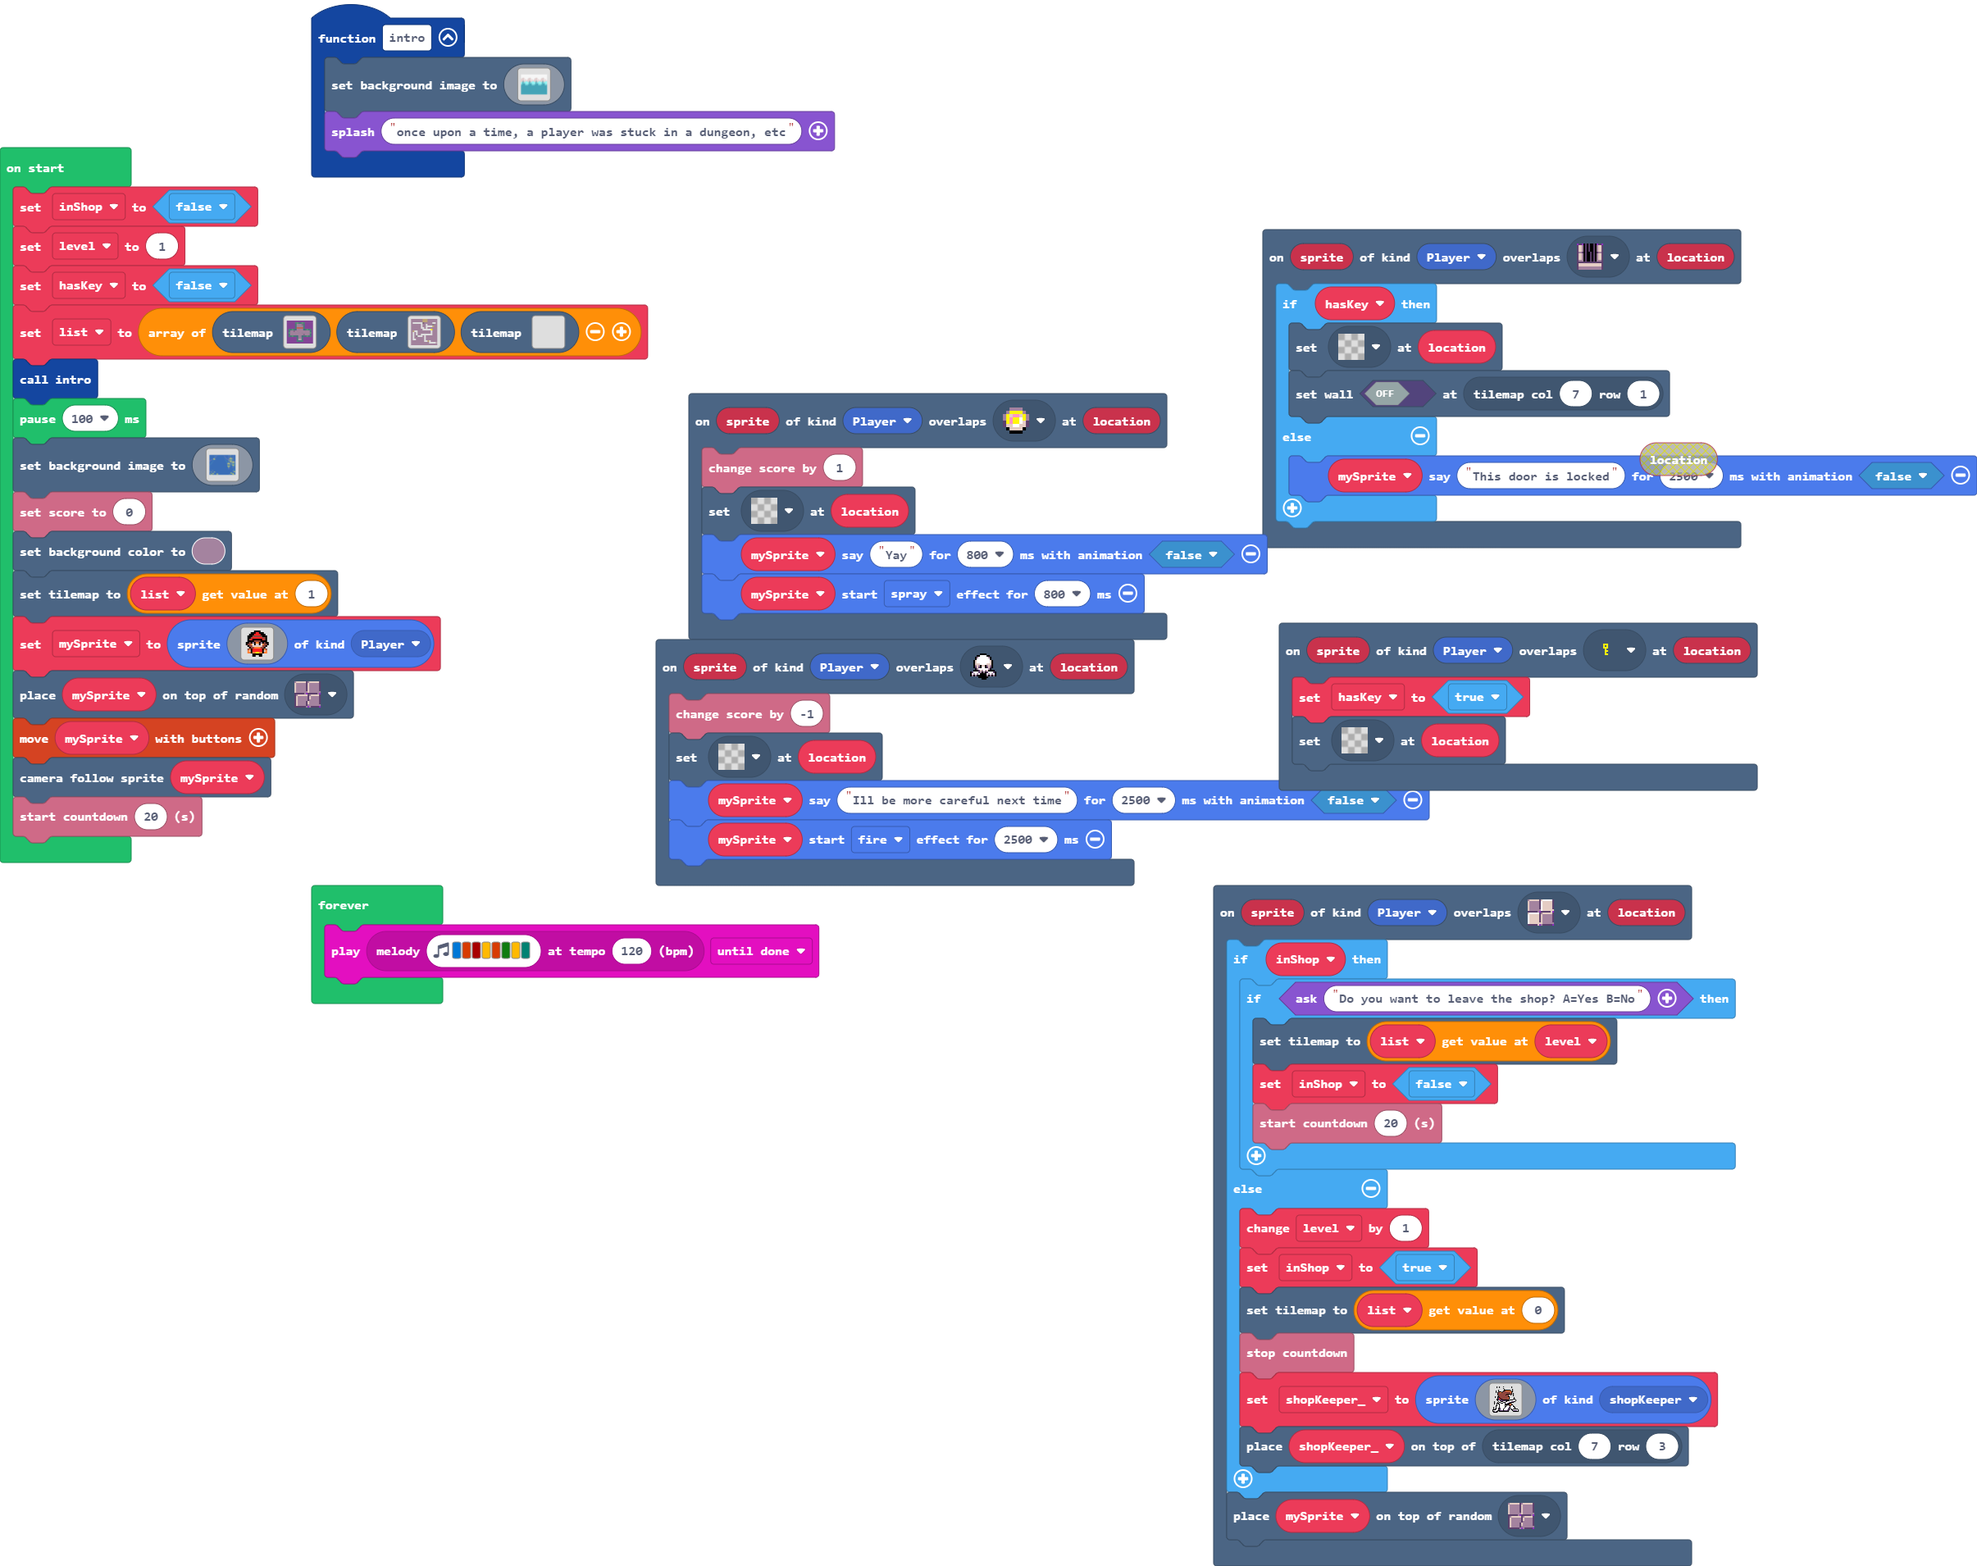
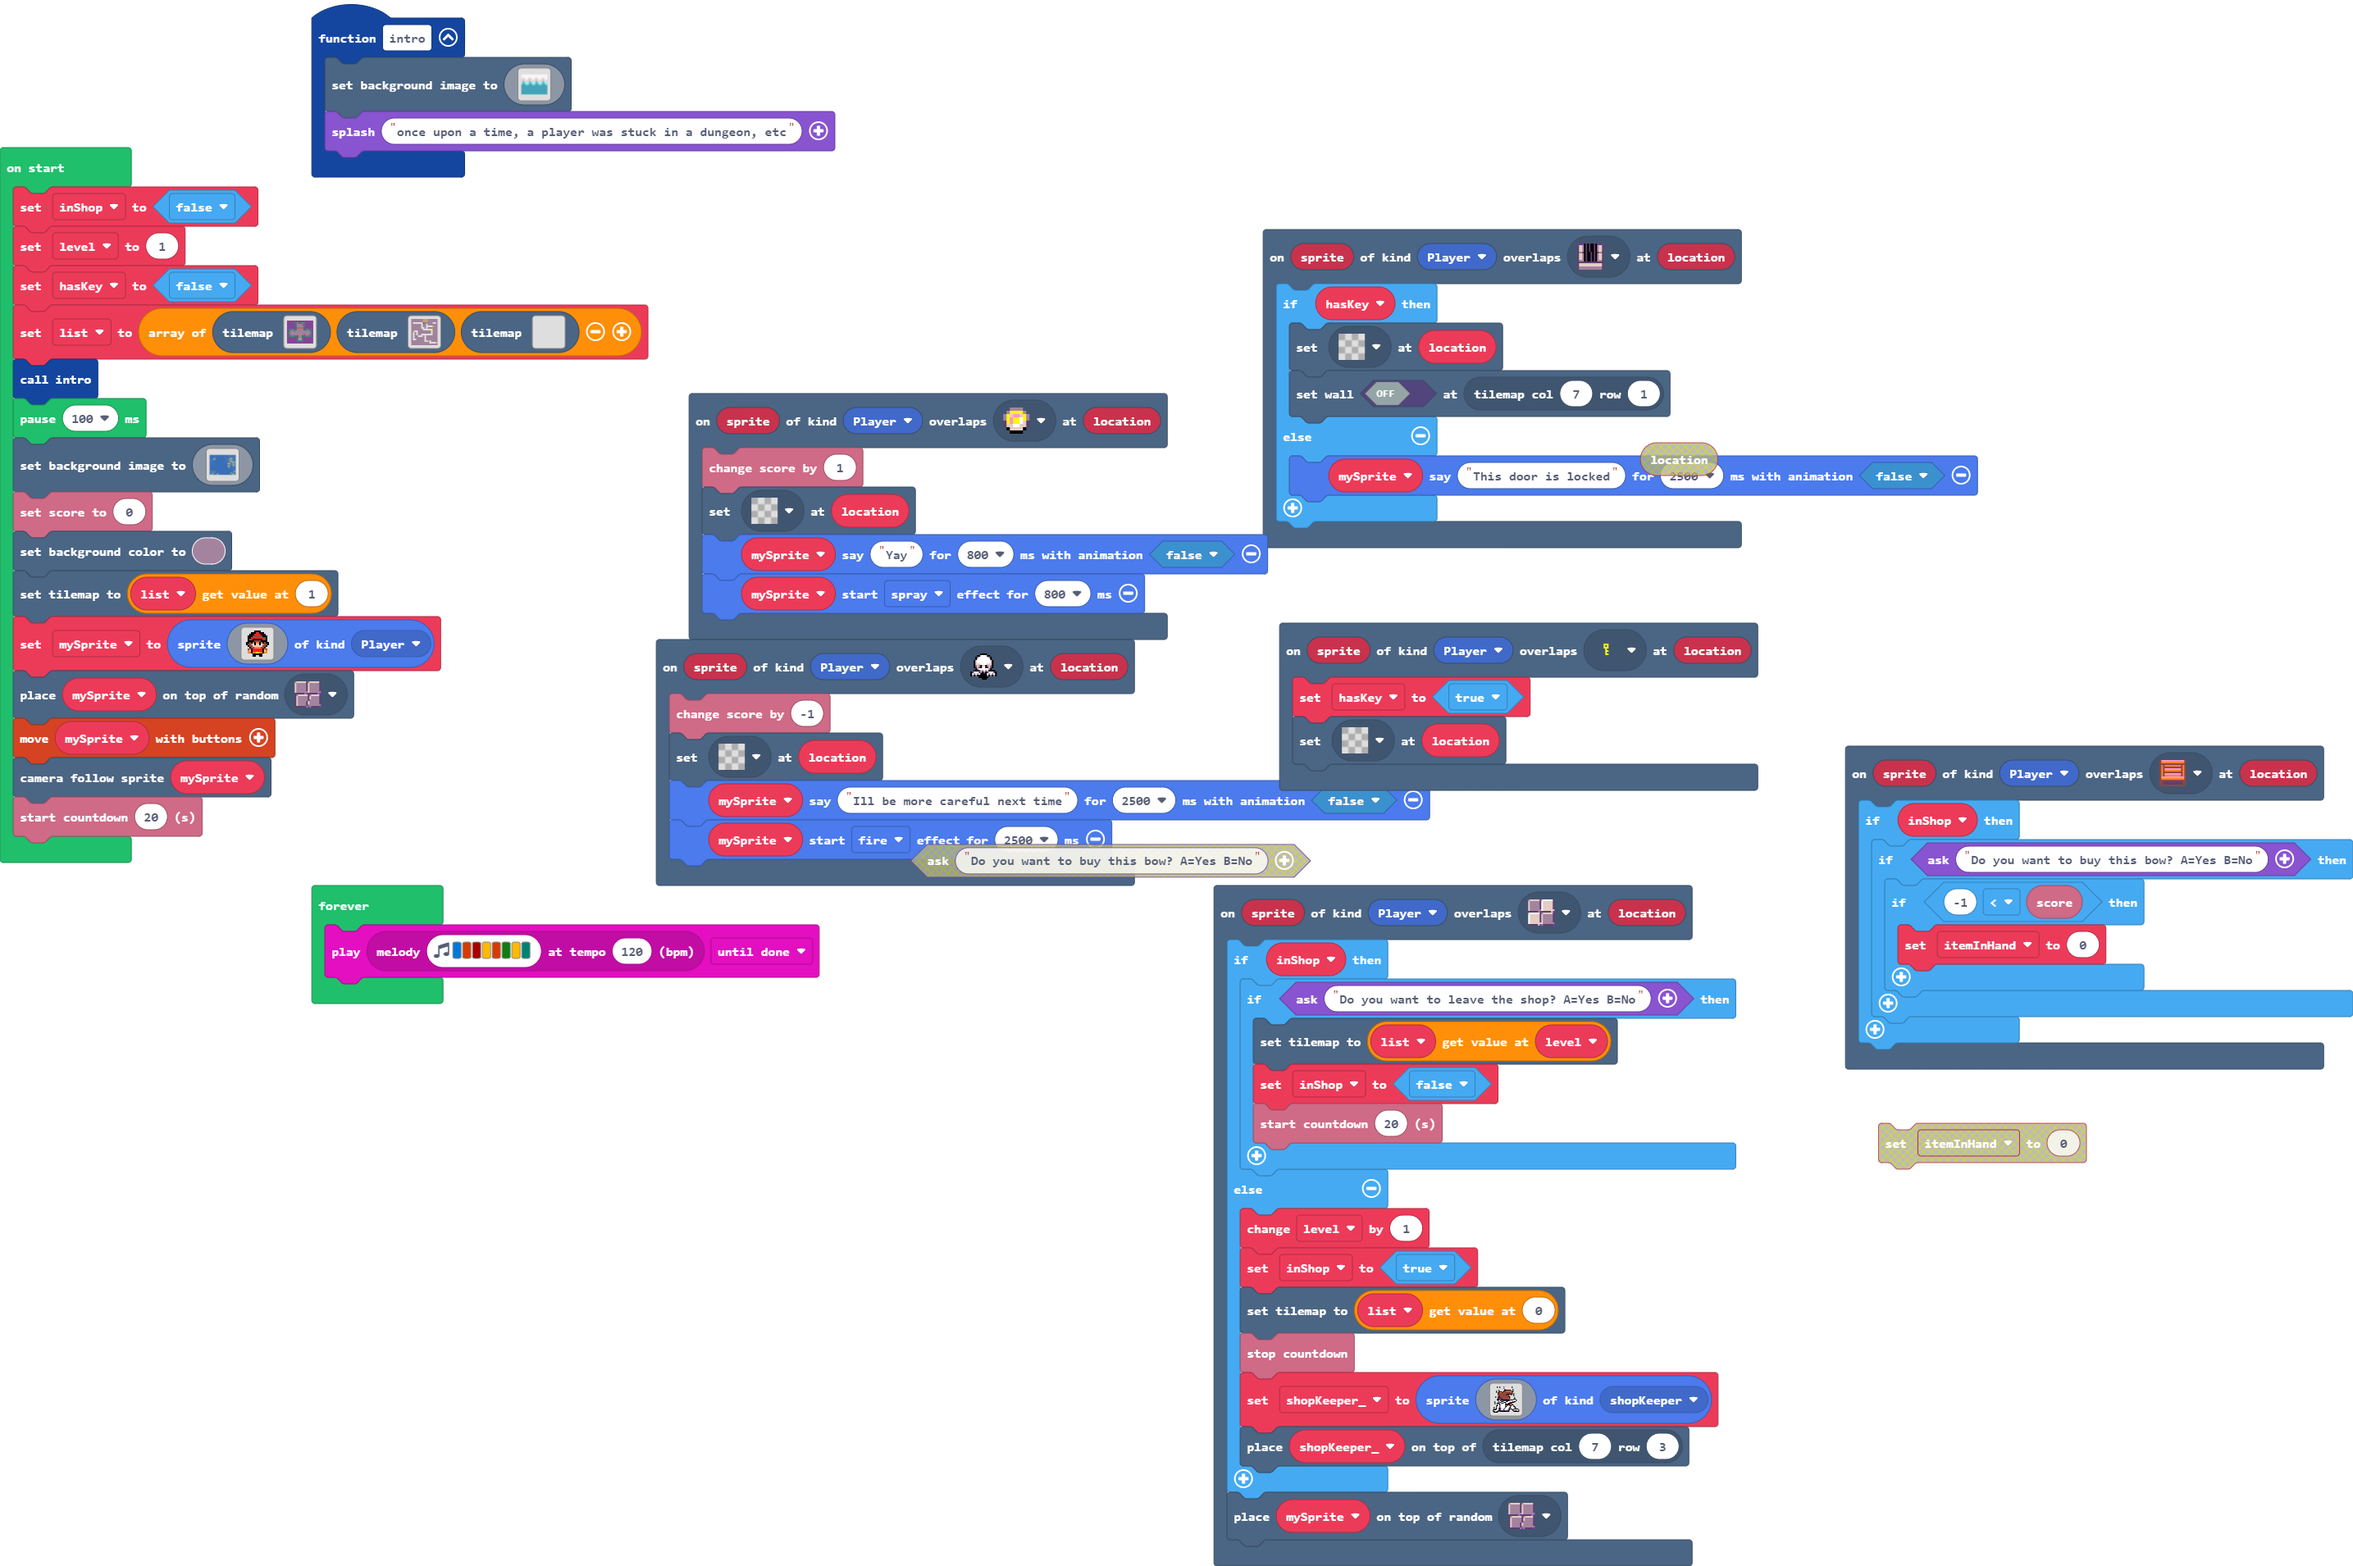
Update main.blocks, main.ts

Changed region(s): [[0.0, 0.0, 1.0, 1.0]]

diff --git a/main.ts b/main.ts
@@ -17,6 +17,15 @@ scene.onOverlapTile(SpriteKind.Player, assets.tile`myTile`, function (sprite, lo
     mySprite.sayText("Yay", 800, false)
     mySprite.startEffect(effects.spray, 800)
 })
+scene.onOverlapTile(SpriteKind.Player, sprites.dungeon.stairLadder, function (sprite, location) {
+    if (inShop) {
+        if (game.ask("Do you want to buy this bow? A=Yes B=No")) {
+            if (-1 < info.score()) {
+                itemInHand = 0
+            }
+        }
+    }
+})
 function intro () {
     scene.setBackgroundImage(img`
         1111111111111111111111111111111111111111111111111111111111111111111111111111111111111111111111111111111111111111111111111111111111111111111111111111111111111111
@@ -201,6 +210,7 @@ scene.onOverlapTile(SpriteKind.Player, sprites.dungeon.floorMixed, function (spr
     tiles.placeOnRandomTile(mySprite, sprites.dungeon.floorDark4)
 })
 let shopKeeper_: Sprite = null
+let itemInHand = 0
 let mySprite: Sprite = null
 let list: tiles.TileMapData[] = []
 let hasKey = false
